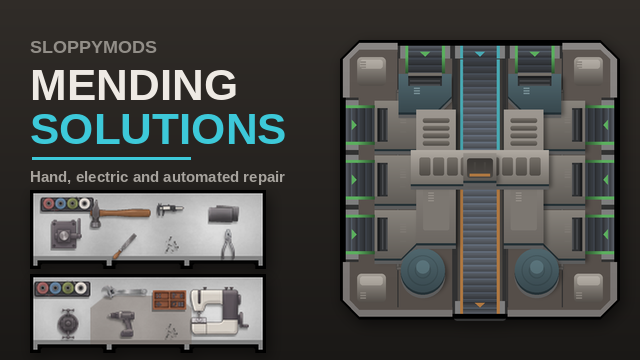
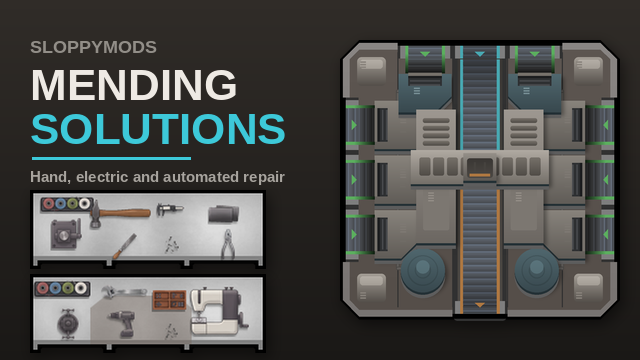
Put the whole channel on the slope, not just the rail
The rail alone grading to 0.49 came out as a wash rather than a dive, because
everything around it stayed flat. A slope has to take the whole channel with it
or it is just a painted stripe.

The 0.49 was wrong as well. It came from sampling their rail with a
green-dominant mask, which stops finding the rail once it is dark enough - and
the rail carries on well past where that mask gives up, which is exactly the
stretch that matters. Re-sampled at 2px down their assembler's port, outer lip
(y700) to inner end (y606), 94px or 0.73 of a cell:

  rail           (91,175,94) -> 0.18 of that
  bed            full roller crown -> (31,31,31), 0.32 of the crown
  roller relief  full -> none; by y630 the bed is one flat tone

Both hold for the outer 30% and then fall dead straight. CHAN_FLAT, RAIL_SHADE
and BED_SHADE are those numbers, and rollers() now takes the channel span and
applies the same profile to the bed - pulling each roller's six steps towards
their own mean so the relief collapses as it darkens. That last part is half the
effect: detail that fades out looks like fog, detail that flattens looks like
something has gone under a lid.

Ours now measures flat to x=136 then linear to 0.183 at x=206, bed arriving at
(30,30,30). _bed and belt_run's shade arguments are gone, folded into rollers();
without a span it keeps the old local 38% falloff, which is what a bay feeding
the spine wants.

All nine style metrics unchanged and in range. verify_spots.py passes.
[…]

diff --git a/Source/Art/vfe_chassis.py b/Source/Art/vfe_chassis.py
@@ -59,12 +59,18 @@ WALL = (93, 93, 93)              # a casing's side wall, lit
 WALL_SEAM = (35, 48, 53)         # the thin dark line where its top face meets that wall
 CASING_RIM = (35, 48, 53)
 
-# A RAIL IS A RAMP, not a step. Sampled down their assembler's left rail, outer end inward:
-# (91,175,94) held flat for the outer 40% of the channel, then a straight linear fall to
-# (54,86,55) - 0.49 of full - by the time it meets the machine. That fall IS the entry slope:
-# a channel whose floor climbs into the body, drawn from above as tone rather than as an edge.
-RAIL_FLAT  = 0.41                 # of the channel nearest the lip, held at full tone
-RAIL_SHADE = 0.49                 # what the tone has fallen to where it meets the machine
+# THE WHOLE CHANNEL IS A RAMP, not just its rail. Sampled down their assembler's port at 2px,
+# outer lip (y700) to inner end (y606) - 94px, 0.73 of a cell:
+#   rail  (91,175,94) flat to y670, then dead straight down to 0.18 of full by y606
+#   bed   full crown to y670, then down to (31,31,31), 0.32 of the crown
+#   and the roller crown/trough contrast collapses to nothing on the way - by y630 the bed is
+#   one flat tone. The detail does not fade out, it goes UNDER something.
+# Both the rail and the bed hold for the outer 30% and then fall linearly: one slope, shared,
+# which is what makes the channel read as a floor diving under the body rather than a painted
+# strip. An earlier pass had the rail alone falling, and only to 0.49 - a wash, not a dive.
+CHAN_FLAT  = 0.30                 # of the channel nearest the lip, held at full tone
+RAIL_SHADE = 0.18                 # what the rail has fallen to where it meets the machine
+BED_SHADE  = 0.32                 # and the bed, whose roller detail has gone flat by then
 RAILS = {'orange': ((175, 120, 65), (109, 79, 49)),
          'green':  ((91, 175, 94),  (57, 109, 59)),
          'cyan':   ((72, 168, 178), (45, 105, 111))}
@@ -106,11 +112,62 @@ class Chassis:
         self.rgb = self.rgb * (1 - m[..., None]) + g * m[..., None]
         self.a = np.maximum(self.a, m)
 
-    def rail_tone(self, t):
-        """The rail's brightness at fraction `t` along the channel, lip (0) to machine (1)."""
-        if t <= RAIL_FLAT:
+    @staticmethod
+    def chan_tone(t, end):
+        """Brightness at fraction `t` along a channel, lip (0) to machine (1): flat, then a
+        straight fall to `end`. Their profile is linear to the pixel over that fall."""
+        if t <= CHAN_FLAT:
             return 1.0
-        return 1.0 + (RAIL_SHADE - 1.0) * (t - RAIL_FLAT) / (1.0 - RAIL_FLAT)
+        return 1.0 + (end - 1.0) * (t - CHAN_FLAT) / (1.0 - CHAN_FLAT)
+
+    @staticmethod
+    def chan_flat(t):
+        """How far the roller detail has gone flat at `t` - 0 at the lip, 1 at the machine."""
+        if t <= CHAN_FLAT:
+            return 0.0
+        return (t - CHAN_FLAT) / (1.0 - CHAN_FLAT)
+
+    @staticmethod
+    def chan_at(q, span):
+        s0, s1 = span
+        return min(1.0, max(0.0, (q - s0) / max(abs(s1 - s0), 1.0)))
+
+    def rollers(self, rect, along, half, face, inward, q0, q1, span=None):
+        """A stretch of roller bed: a six-step ramp per roller, no separator between them.
+        VFE never put a line between two rollers - the trough IS the line.
+
+        With a `span` it follows the channel profile, so it darkens to BED_SHADE and LOSES ITS
+        RELIEF on the way: each roller's steps are pulled towards their own mean, and by the
+        far end the bed is one flat tone. Theirs does exactly that, and it is the difference
+        between a belt that fades out and a belt that goes under something.
+
+        Without one it keeps the old local behaviour - full at the lip, 38% down by the far end
+        - which is what a bay feeding the spine wants, since the spine carries on at full tone.
+        """
+        period = self.r(ROLLER_PERIOD)
+        depth = abs(q1 - q0)
+        sign = 1.0 if q1 >= q0 else -1.0
+        n = int(depth / period) + 1
+        for i in range(n):
+            for f0, f1, col in ROLLER:
+                e0 = q0 + sign * (i + f0) * period
+                e1 = q0 + sign * (i + f1) * period
+                if abs(e0 - q0) > depth:
+                    continue
+                if abs(e1 - q0) > depth:
+                    e1 = q1
+                if span is None:
+                    c = tuple(v * (1.0 - 0.38 * min(1.0, abs(e0 - q0) / max(depth, 1.0)))
+                              for v in col)
+                else:
+                    t = self.chan_at(0.5 * (e0 + e1), span)
+                    flat = self.chan_flat(t)
+                    mean = sum(col) / 3.0
+                    k = self.chan_tone(t, BED_SHADE)
+                    c = tuple((v * (1 - flat) + mean * flat) * k for v in col)
+                box = rect(along - half, along + half, face + inward * e0, face + inward * e1)
+                if box[2] - box[0] >= 1 and box[3] - box[1] >= 1:
+                    self.fill(box, c)
 
     def rail_band(self, rect, along, half, face, inward, q0, q1, colour, span):
         """The rail strips either side of a bed, graded along the channel.
@@ -127,13 +184,11 @@ class Chassis:
             self.fill(rect(along - half, along + half,
                            face + inward * q0, face + inward * q1), colour)
             return
-        s0, s1 = span
-        length = max(abs(s1 - s0), 1.0)
         n = max(1, int(abs(q1 - q0)))
         for i in range(n):
             e0 = q0 + (q1 - q0) * i / n
             e1 = q0 + (q1 - q0) * (i + 1) / n
-            k = self.rail_tone(min(1.0, max(0.0, (0.5 * (e0 + e1) - s0) / length)))
+            k = self.chan_tone(self.chan_at(0.5 * (e0 + e1), span), RAIL_SHADE)
             self.fill(rect(along - half, along + half,
                            face + inward * e0, face + inward * e1),
                       tuple(v * k for v in colour))
@@ -420,29 +475,20 @@ class Chassis:
         """A shallow inset panel: one flat tone a step below its surroundings."""
         self.fill(box, colour, radius=int(self.r(5)))
 
-    def belt_run(self, along, side, d0, d1, width=None, shade0=0.62, shade1=0.62,
-                 rail=None, rail_span=None):
-        """A stretch of roller bed carrying on from a port bay.
+    def belt_run(self, along, side, d0, d1, width=None, rail=None, rail_span=None):
+        """The rest of a channel: the stretch of bed and rail carrying on past a port bay.
 
-        It defaults to the BAY'S OWN BED WIDTH and holds the brightness the bay ends at, flat,
-        because the join has to be invisible. A narrower run stepped down from the bay and that
-        change of width at the seam was the thing that read as jarring - VFE never change a
-        belt's width along its length. Letting the run keep darkening past the bay was no better:
-        it arrived at the chute as dark as the chute and the two merged.
-
-        `rail` carries the port's own accent line on inward alongside the run, graded by
-        rail_tone() over `rail_span`. Without it the rail stopped at the bay's inner end, which
-        left the accent as a stub on the outside of the building. Carrying it through at a flat
-        dimmer tone was no better: a step from one tone to another reads as a wall, and what the
-        channel actually does is climb, so the tone has to fall the way VFE's does - held for
-        the outer stretch, then straight down to about half by the time it meets the machine.
+        It is the bay's own bed width, because a change of width at that seam is the one thing
+        that reads as jarring and VFE never change a belt's width along its length. What it does
+        change is TONE, and it is the same slope the bay is already on: `rail_span` says where
+        the whole channel starts and ends, so the bay and the run grade as one and the seam
+        between them is invisible. The bay stops at the outer third of that slope; everything
+        past it is the steep part, which is why this stretch is where the dive actually reads.
         """
         w = (self.r(BED_W) if width is None else width) / 2.0
         face = {'top': self.y0, 'bottom': self.y1, 'left': self.x0, 'right': self.x1}[side]
         inward = 1.0 if side in ('top', 'left') else -1.0
         vertical = side in ('top', 'bottom')
-        a, b = face + inward * d0, face + inward * d1
-        span = max(abs(b - a), 1.0)
 
         def rect(a0, a1, e0, e1):
             box = [a0, e0, a1, e1] if vertical else [e0, a0, e1, a1]
@@ -453,22 +499,7 @@ class Chassis:
             # and leave exactly the rail_w strip either side that a bay leaves.
             self.rail_band(rect, along, w + self.r(RAIL_W), face, inward, d0, d1,
                            RAILS[rail][0], rail_span)
-
-        period = self.r(ROLLER_PERIOD)
-        n = int(span / period) + 1
-        for i in range(n):
-            for f0, f1, col in ROLLER:
-                e0 = a + inward * (i + f0) * period
-                e1 = a + inward * (i + f1) * period
-                if abs(e0 - a) > span:
-                    continue
-                if abs(e1 - a) > span:
-                    e1 = b
-                t = min(1.0, abs(e0 - a) / span)
-                sh = shade0 + (shade1 - shade0) * t
-                box = rect(along - w, along + w, e0, e1)
-                if box[2] - box[0] >= 1 and box[3] - box[1] >= 1:
-                    self.fill(box, tuple(v * sh for v in col))
+        self.rollers(rect, along, w, face, inward, d0, d1, rail_span)
 
     def mouth(self, along, side, depth_at, width=None, deep=None):
         """The dark opening a belt runs into.
@@ -537,9 +568,8 @@ class Chassis:
         # falls just inside the bay's inner end, so the bay grades too and the run picks the
         # slope up exactly where the bay left it.
         q0, q1 = -self.r(PROTRUDE), self.r(BAY_DEPTH - PROTRUDE)
-        self.rail_band(rect, along, bed / 2 + rail_w, face, inward, q0, q1, lo,
-                       rail_span)
-        self._bed(along, bed, outer, deep, inward, rect)
+        self.rail_band(rect, along, bed / 2 + rail_w, face, inward, q0, q1, lo, rail_span)
+        self.rollers(rect, along, bed / 2, face, inward, q0, q1, rail_span)
 
         # The bay's outer lip is part of the machine's silhouette, so it - and only it - is black.
         # Long enough to meet the chassis outline either side of the bay, so the silhouette
@@ -552,30 +582,6 @@ class Chassis:
             # read as taking things in on all four sides and never putting anything out. VFE's
             # point with the flow: in at the top, out at the bottom, same direction throughout.
             self._chevron(along, face, inward, vertical, lo, bed, outward=outward)
-
-    def _bed(self, along, bed, outer, face, inward, rect):
-        """Rollers: a six-step ramp per roller, no separator between them, darkening towards
-        the machine. VFE never put a line between two rollers - the trough IS the line."""
-        depth = abs(face - outer)
-        period = self.r(ROLLER_PERIOD)
-        start = outer + inward * self.r(7)                 # just under the black lip
-        n = int(depth / period) + 1
-        for i in range(n):
-            for f0, f1, col in ROLLER:
-                d0 = start + inward * (i + f0) * period
-                d1 = start + inward * (i + f1) * period
-                t = min(1.0, (i + f0) * period / max(depth - self.r(7), 1.0))
-                col = tuple(v * (1.0 - 0.38 * t) for v in col)
-                box = rect(along - bed / 2, along + bed / 2, d0, d1)
-                lo_d, hi_d = min(outer, face), max(outer, face)
-                if rect is None:
-                    continue
-                if box[3] - box[1] < 1 or box[2] - box[0] < 1:
-                    continue
-                # clip to the bay
-                if abs(d0 - outer) > depth:
-                    continue
-                self.fill(box, col)
 
     def _chevron(self, along, face, inward, vertical, colour, bed, outward=False):
         """A flat triangle on the chassis face, no outline - exactly how VFE mark flow."""

diff --git a/Source/Art/README.md b/Source/Art/README.md
@@ -171,26 +171,45 @@ said none of them:
 * **it stands on the deck.** Housings, gantry and head all get the same side wall and cast
   shadow the casings get, so the middle reads as three stacked levels rather than one plate.
 
-A port's accent rail does not stop at the bay. It carries on inward alongside the run and
-ends where the run ends at the chute, and it GRADES over that whole length rather than
-stepping. Sampled down the left rail of their assembler, outer end inward: `(91,175,94)` held
-flat for the outer 40% of the channel, then a straight linear fall to `(54,86,55)` - 0.49 of
-full - by the time it meets the machine. `rail_tone()` is that profile; `RAIL_FLAT` and
-`RAIL_SHADE` are those two numbers.
+A port's accent rail does not stop at the bay, and neither does the bed. The bay and the run
+past it are ONE channel, and the whole of it - rail, rollers and all - is on a single slope.
+
+Sampled at 2px down their assembler's port, outer lip (y700) to inner end (y606), 94px or 0.73
+of a cell:
+
+| | at the lip | at the machine |
+| --- | --- | --- |
+| rail | `(91,175,94)` | 0.18 of that |
+| bed | full roller crown | `(31,31,31)`, 0.32 of the crown |
+| roller relief | full | **none** - by y630 the bed is one flat tone |
+
+Both hold for the outer 30% and then fall dead straight. `chan_tone()` is that profile;
+`CHAN_FLAT`, `RAIL_SHADE` and `BED_SHADE` are those numbers. Ours measures flat to x=136 then
+linear to 0.183 at x=206, with the bed arriving at `(30,30,30)`.
+
+The roller relief collapsing is half of the effect and the part that is easy to miss. Their
+bed does not just get darker, it stops having rollers in it: each roller's six steps are pulled
+towards their own mean until the far end is featureless. Detail that fades out looks like fog;
+detail that flattens looks like something has gone under a lid.
 
 That fall is the entry slope. In section the channel is not a floor meeting a wall, it is a
 floor that climbs into the body - flat, then a ramp, then the machine's own level - and from
 directly above the only thing that can carry a slope is tone. So a step from one tone to
 another is wrong twice over: it reads as a wall, and it puts a hard edge where the sprite
-should have none. Two earlier tries got this wrong - the rail stopping dead at the bay's inner
-end, which left the accent as a stub outside the building, and then carrying on at a flat
-dimmer tone, which just moved the wall inward.
+should have none. Three earlier tries got this wrong: the rail stopping dead at the bay's inner
+end, which left the accent as a stub outside the building; carrying on at a flat dimmer tone,
+which just moved the wall inward; and then a slope on the rail ALONE, stopping at 0.49, which
+came out as a wash because everything around it stayed flat. A slope has to take the whole
+channel with it or it is just a painted stripe. The 0.49 came from sampling with a
+green-dominant mask, which stops finding the rail once it is dark enough - the rail carries on
+well past where that mask gives up, which is exactly the stretch that matters.
 
-The bay and the run past it are ONE channel for this purpose. Both are handed the same
-`rail_span` - where the channel starts and ends, measured from the chassis face - rather than
-each grading over its own length, because the knee in the profile falls just inside the bay's
-inner end and grading twice would crease the slope at the seam. `rail_band()` paints it in 1px
-slices for the same reason: one two-colour ramp cannot bend.
+Both halves are handed the same `rail_span` - where the channel starts and ends, measured from
+the chassis face - rather than each grading over its own length, because the knee in the
+profile falls just inside the bay's inner end and grading twice would crease the slope at the
+seam. `rail_band()` paints it in 1px slices for the same reason: one two-colour ramp cannot
+bend. `rollers()` takes the same span and does the same thing to the bed; without a span it
+keeps the old local 38% falloff, which is what a bay feeding the spine wants.
 
 The item port and the output get no ramp. They feed the spine, which runs its rails at full
 tone end to end because it has to read as one belt through the machine, and a ramp into it
